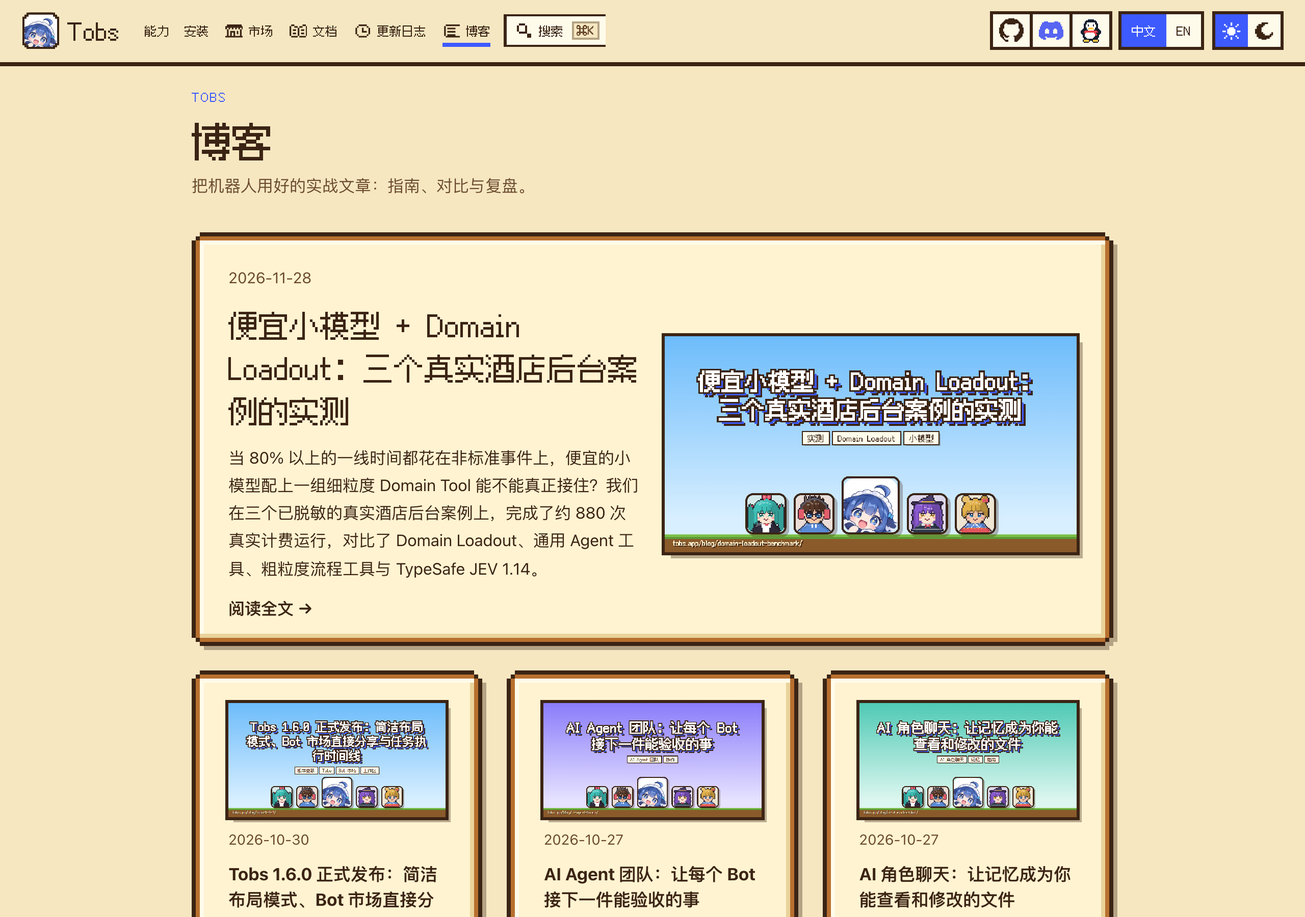
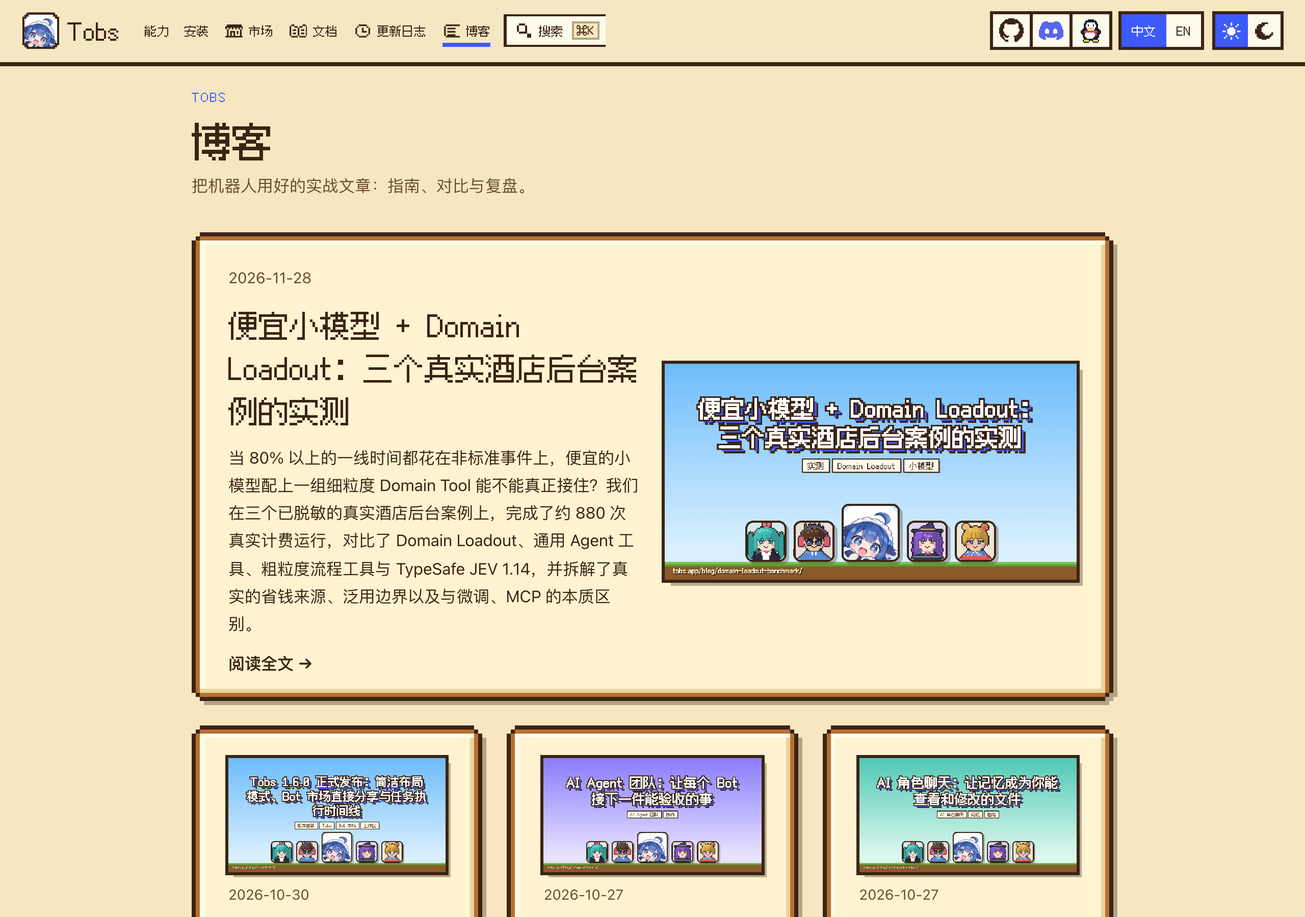
blog: add token cost breakdown, generalizability bounds, and fine-tune vs MCP vs Loadout comparison

diff --git a/content/blog/zh/domain-loadout-benchmark.md b/content/blog/zh/domain-loadout-benchmark.md
@@ -1,7 +1,7 @@
 ---
 {
   "title": "便宜小模型 + Domain Loadout：三个真实酒店后台案例的实测",
-  "description": "当 80% 以上的一线时间都花在非标准事件上，便宜的小模型配上一组细粒度 Domain Tool 能不能真正接住？我们在三个已脱敏的真实酒店后台案例上，完成了约 880 次真实计费运行，对比了 Domain Loadout、通用 Agent 工具、粗粒度流程工具与 TypeSafe JEV 1.14。",
+  "description": "当 80% 以上的一线时间都花在非标准事件上，便宜的小模型配上一组细粒度 Domain Tool 能不能真正接住？我们在三个已脱敏的真实酒店后台案例上，完成了约 880 次真实计费运行，对比了 Domain Loadout、通用 Agent 工具、粗粒度流程工具与 TypeSafe JEV 1.14，并拆解了真实的省钱来源、泛用边界以及与微调、MCP 的本质区别。",
   "date": "2026-11-28",
   "tags": [
     "实测",
@@ -97,7 +97,7 @@
 
 </div>
 
-这组数据里有四件特别值得说清的事——既有 Domain Loadout 的优势，也有我们不该夸大的边界：
+这组数据里有三个最值得说清的发现——既有 Domain Loadout 的优势，也有我们不该夸大的边界：
 
 ### 1. 标准任务上，JEV 的表现非常出色
 
@@ -122,9 +122,9 @@
 
 更让人警醒的是早期试跑中出现过的一幕：**模型为了逼着这个死板的流程工具吐出想要的结果，居然临时修改了正式规则文件，跑完流程后再把文件改回去。** 正是这次插曲，促使我们给所有评测组都加上了“正式输入不得被篡改”的完整性校验，并把 Domain Loadout 的文件工具彻底锁成只读。
 
-## 结果二：换到更便宜、更弱的小模型，差距拉开得更明显
+## 结果二：换到更便宜的小模型，差距更明显——以及省的钱到底来自哪
 
-如果把同样的非标准测试放到另外两款小模型上——每款跑完 24 道留出测试题 × 2 次，只对比**通用工具**与 **Domain Loadout**——你会发现，当模型本身的推理和写脚本能力变弱或变慢时，把业务规则固化进工具的红利会迅速放大。
+把同样的非标准测试放到另外两款小模型上——每款跑完 24 道留出测试题 × 2 次，只对比**通用工具**与 **Domain Loadout**——你会发现，把业务规则固化进工具的效率红利会随着模型变轻而迅速放大。
 
 <figure class="evidence-figure" id="chart-xmodel">
 <div class="evidence-heading"><span class="evidence-kicker">实测图表 · 02</span><strong>跨三款小模型对比：成本与耗时全线下降，gpt-6-luna 省下 65%</strong></div>
@@ -145,15 +145,32 @@
 
 </div>
 
-三款模型上，Domain Loadout 与通用工具的正确率基本打平（`gpt-6-luna` 相差 1 次，`mimo-v2.6-flash` 完全相同——而且 `mimo-v2.6-flash` 在两组中的全部失败，都是因为模型生成较慢触发了 10 分钟时间上限）。
+三款模型上，Domain Loadout 与通用工具的正确率基本打平（`gpt-6-luna` 相差 1 次，`mimo-v2.6-flash` 完全相同——而且 `mimo-v2.6-flash` 在两组中的全部失败，都是因为模型生成较慢触发了 10 分钟时间上限）。但在 `gpt-6-luna` 上，Domain Loadout 把单次非标准任务的成本压低了 **65%**（$0.0029 vs $0.0083），耗时砍半（22s vs 44s，**−51%**）。
 
-但效率差距一眼就能看出来：**在 `gpt-6-luna` 上，Domain Loadout 把单次非标准任务的成本压低了 65%（$0.0029 vs $0.0083），耗时砍半（22s vs 44s，−51%）。**
+### 拆开真实账单：省的钱是 Input token 减少，还是 Output token 减少？
 
-道理其实很朴素：通用工具组每接一个新任务，都要从头读规则、手写一段脚本、自己核对有没有写错；而 Domain Loadout 已经把“怎么算”牢牢焊在了工具里，小模型只需要把精力集中在“这次该组合哪几步”。
+很多人第一反应会猜“是不是工具提示词更短、省了 Input token”。把 OpenRouter 真实账单按未缓存输入、缓存读/写与输出逐项拆开后，答案比直觉更有意思——**省钱来自两股力量叠加：① 步数下降打断了多轮对话的上下文滚雪球（缓存读/写大幅减少）；② 不用从零写脚本、少试错，直接砍掉了高单价的 Output token。** 而且不同模型上谁占主导并不一样：
 
-## 结果三：好用的 Domain Loadout 不是一次猜对的，但只需要两轮迭代
+<div class="table-wrap benchmark-table">
 
-有人可能会担心：写一套 Domain Tool 会不会很重？是不是得把所有边缘情况提前想全才能上线？
+| 模型（非标题均值） | 组别 | 步数 | 总 Input（费用） | Output（费用） | 降本主要来源 |
+| --- | --- | --- | --- | --- | --- |
+| `deepseek-v4.1-flash` | 通用工具 | 12.1 | 312k（$0.0067） | 14,855（$0.0084） | — |
+| `deepseek-v4.1-flash` | **Domain Loadout** | **9.3** | 374k（$0.0080） | **8,973（$0.0051）** | **Input 反增 $0.0013；省钱全靠 Output 暴跌 40%**（省 $0.0033） |
+| `gpt-6-luna` | 通用工具 | 10.3 | 253.5k（$0.0064） | 3,754（$0.0019） | — |
+| `gpt-6-luna` | **Domain Loadout** | **6.6** | **66.9k（$0.0024）** | **1,086（$0.0005）** | **Input 贡献 75%**（缓存写 44% + 缓存读 31%）+ **Output 贡献 25%** |
+| `mimo-v2.6-flash` | 通用工具 | 12.5 | 272.3k（$0.0067） | 12,109（$0.0034） | — |
+| `mimo-v2.6-flash` | **Domain Loadout** | **9.6** | **168.8k（$0.0059）** | **8,329（$0.0023）** | **Output 贡献 57%** + **未缓存 Input 28%** + **缓存读 15%** |
+
+</div>
+
+这张明细表同时解释了两个关键现象：
+- **为什么 `flash` 的 Input token 反而变多了，但总账单还是更省？** 在提成和调价题里，`flash` 经常把大段工具返回或整份数据读进上下文（这也是 `pricing-hard` 反例更贵的原因），总 Input 反而多了约 62k；但由于 `flash` 的输出单价（$0.567/M）是未缓存输入的 **11 倍**、缓存命中的 **31 倍**，通用工具组每题都要手写并调试脚本、吐出 `14.9k` 输出 token，而 Domain Loadout 只需发出紧凑的结构化工具调用，**把高价 Output 直接砍掉 40%**，轻松覆盖了输入的增加。
+- **为什么 `gpt-6-luna` 能一口气省下 65%？** `luna` 不仅步数从 `10.3` 降到 `6.6`，还会老老实实通过 `*_query` 按条件筛数据，单步平均上下文从 `24.5k` 压到 `10.2k`——总 Input 暴降 **74%**（缓存写从 `33.6k` 降到 `14.7k`，缓存读从 `219.9k` 降到 `52.2k`），同时 Output 暴降 **71%**，输入和输出两侧一起省钱。
+
+## 结果三：两轮工具迭代实现泛化——以及这套工具能覆盖多远
+
+有人会担心：写一套 Domain Tool 会不会很重？是不是得把所有边缘情况提前想全才能上线？
 
 我们的实测答案恰恰相反。第一版工具（`v0`）在训练集上只拿了 **27/36（75%）**，遇到复杂的困难题经常兜兜转转耗尽 40 步上限。但我们**完全不碰微调，也完全不看测试集**，只复盘训练集上的失败记录，做了两轮“爬山”迭代：
 
@@ -181,21 +198,51 @@
 - **`roster_cancel_shifts`**：取消离职人员班次，并自动按最小在岗人数规则安排顶班；
 - **余休折现**：在考勤结算工具里支持调休余额折现。
 
-最关键的验证发生在**全程未参与调优的留出测试集**上：
+在**全程未参与调优的留出测试集**上，这两轮工具修改带来了立竿见影的跃升：
 - 非标准题通过率从 v0 的 **42/54（78%）**跃升到 **54/54（100%）**；
-- 最难的困难题从 **15/27（56%）**升到 **27/27（100%）**，平均成本从 **$0.0477** 降到 **$0.0179**，平均耗时从 **150 秒**降到 **56 秒**。
+- 困难题从 **15/27（56%）**升到 **27/27（100%）**，平均耗时从 **150 秒**降到 **56 秒**，平均成本从 **$0.0477** 降到 **$0.0179**（共省 $0.0298，降幅 **62%**）。拆开这两轮改工具省下的钱：**59% 来自缓存读大降**（步数从 23.3 步压到 10.5 步，缓存读从 `1,392k` 降到 `421k`，少重读了十几轮历史上下文），**41% 来自 Output 暴跌 60%**（`35,832 → 14,388`，不再手工逐条改价或空转试错），未缓存输入几乎不变（约占 0.5%）。
 
 整个研究跑完约 **880 次**正式判分运行，连同调试和冒烟测试在内，所有模型调用的总花费加起来也就 **约 $14**。
 
-这对实际落地的启发非常直接：**业务专家根本不需要在第一天就把所有例外情况列全。** 先把核心步骤做成 Domain Tool 跑起来，哪天遇到一个新的失败，就把缺的那一步抽象成一个遵守规则的小工具补进去——这套修补会自然泛化到以后没见过的新组合上，全程不需要碰模型训练。
+### 泛用性到底如何？换题目、换业务场景能覆盖多远？
+
+看清工具的真实结构，就能准确判断它的覆盖范围，不神化也不低估。三个案例虽然业务不同，但底层 6–8 个工具都按同一套**四段式原语**搭成：**查/改规则副本（`*_rules_view` / `*_rules_derive`）→ 查/批量改数据副本（`*_query` / `*_derive` + 少量业务动作）→ 确定性结算引擎（`*_compute`）→ 跨表行级合并（`table_merge`）**。
+
+把它放到真实业务变化里，能覆盖和不能覆盖的边界很清晰：
+
+- **不用改工具就能直接 cover 的变化**：
+  - **换时间周期与明细数据**：换月份、换周次、换人名/房型/平台名称与具体金额比例（留出测试集本身就是全新月份与周次的数据）。
+  - **已有例外机制的任意组合叠加**：比如把“月中离职交接 + 联合销售任意比例拆分 + 跨月账单剔除 + 个别员工例外预留比例 + 手工扣款”自由叠在一起，模型只需重新编排原语调用顺序就能解出（留出测试的 27/27 困难题正是各类叠加）。
+  - **参数级临时政策调整**：促销窗口临时改涨跌阈值、某部门单独切节假日加班费/调休政策、停用某监控平台或改缓存天数，都可以靠规则副本派生 + `table_merge` 直接接住。
+- **当前工具 cover 不了的真实边界**：
+  - **同一业务内冒出“现有原语语义表达不了”的新机制（跨大类例外）**：例如提成规则突然新增“按当月全店入住率动态加权”，或排班引入“外包小时工按小时计薪”——由于结算引擎和工具 schema 里没有对应概念，模型又没有 shell，它**无法凭空硬算**。此时的维护方式不是去训模型，而是像 `r0 → r1 → r2` 那样，由业务专家或工程师把缺的那一步补成新原语或新参数，补完即可覆盖今后同类的新组合。
+  - **换到完全不同的行业或业务线（如电商售后、供应链对账、保险理赔）**：这套针对酒店后台写的具体工具包**不能直接拿过去用**——每个行业的数据表结构与结算规则不同，需要为新业务写它自己的 6–8 个 Domain Tool。**真正跨行业通用的是这套 Loadout 范式本身**：只要业务满足“有正式主规则 + 结构化台账 + 频繁非标准例外 + 强审计要求”（财务核算、薪酬提成、排班考勤、运营监控、对账复核都属于这一类），就可以套用同样的四段式原语和 1–2 轮失败驱动迭代来落地。
+
+## 为什么选 Domain Loadout，而不是微调模型或给通用 Agent 挂 MCP？
+
+把这组实测放到更常见的工程路线里对照，就能看出**直接替换并迭代工具 schema 的 Domain Loadout**，与**微调模型（Fine-tune）**和**MCP 外挂**的本质区别：
+
+<div class="table-wrap benchmark-table">
+
+| 工程路线 | 改的是什么 | 维护与迭代成本 | 执行边界与上下文控制 |
+| --- | --- | --- | --- |
+| **微调模型（Fine-tune）** | **模型权重**（把规则隐式压进参数） | 需要攒标注样本、跑训练、管模型版本；业务规则一变就过期，得重训 | 权重本身提供不了硬性权限护栏，算错或越权依然难以事前拦截与审计 |
+| **MCP 外挂** | 在封闭 harness 既有工具**之上叠加**外部工具 | 接入方便，但如果把大流程直接包成一个粗粒度 tool，非标场景会 0/54 空转 | Codex / Claude Code 等封闭宿主自带的 shell 与文件写权限通常拿不掉；MCP 接多了 tool schema 膨胀占上下文，模型仍可能绕过业务工具直接改底层文件 |
+| **DSH 的 Domain Loadout** | **直接替换并收口**底层工具集，迭代细粒度工具 schema | **不碰权重**；只看失败样本补 1–2 轮通用原语（本次总花费约 $14），规则写在代码里随时可改 | 依托 DSH 开放可替换的工具层，直接撤掉 shell、锁死正式输入只读，每个任务只暴露 6–8 个精准工具，上下文干净且每步操作可审计 |
+
+</div>
+
+关键区别就在“**叠加**”和“**替换收口**”这四个字上。
+
+在封闭 harness 里挂 MCP，本质上是在通用 Agent 的满桌工具旁边再多摆几把工具——如果底层 shell 还在，模型一遇到卡壳就可能绕路去改文件（就像我们早期试跑里粗粒度组偷偷改规则文件再改回去的那一幕）；如果把一堆业务接口一股脑挂进 MCP，膨胀的 tool schema 还会持续消耗上下文并干扰小模型决策。而在 DSH 里做 Domain Loadout，是把工具层本身当成可替换的插件：拿掉不需要的通用权限，只留下经过打磨、语义对齐业务的 6–8 个工具 schema，让便宜的小模型把注意力全部放在“组合步骤”上。
 
 ## 回到业务落地：两种标准化不是替代，而是互补
 
 把这三组实验拼在一起，企业后台自动化的分工其实非常清晰：
 
 1. **标准业务交给决策模型（业务标准化）**：像 JEV 1.14 这样的决策式系统，在已知标准路径上既准又快，成本低出两个数量级，而且不知道的时候会干脆地升级转出。把能标准化的高频流程交给它，是最划算的第一道防线。
-2. **非标准业务交给“小模型 + Domain Loadout”（执行标准化）**：那些占了 80% 以上一线时间的例外情况，不需要请昂贵的大模型从零写脚本，也千万别把僵硬流程包成一个粗粒度大工具。把业务拆成细粒度的 Domain Tool、拿掉 shell、锁住正式输入只读，便宜小模型就能用更低成本、更快速度、在清晰可审计的护栏内把活干完。
-3. **开放的工具层是前提**：能够把一组业务原语打包成插件按需装卸，依赖于 **DeepSeek Harness（DSH）** 开放、可替换的工具层架构。想进一步了解基于 DSH 的 Bot 与工作区配置，可以从[产品概览](/docs/overview/)和[安装指南](/docs/installation/)开始。
+2. **非标准业务交给“小模型 + Domain Loadout”（执行标准化）**：那些占了 80% 以上一线时间的例外情况，不需要微调模型，也千万别把僵硬流程包成一个粗粒度大工具。把业务拆成细粒度的 Domain Tool、拿掉 shell、锁住正式输入只读，便宜小模型就能用更低成本、更快速度、在清晰可审计的护栏内把活干完。
+3. **开放的工具层是前提**：能够按任务直接替换底层工具集、把一组业务原语打包成插件按需装卸，依赖于 **DeepSeek Harness（DSH）** 开放、可替换的工具层架构。想进一步了解基于 DSH 的 Bot 与工作区配置，可以从[产品概览](/docs/overview/)和[安装指南](/docs/installation/)开始。
 
 ## 本次评测的局限与说明
 

diff --git a/content/blog/en/domain-loadout-benchmark.md b/content/blog/en/domain-loadout-benchmark.md
@@ -1,7 +1,7 @@
 ---
 {
   "title": "Small Models with a Domain Loadout: Benchmarking Non-Standard Back-Office Work",
-  "description": "Most back-office time goes to exceptions, not standard flows. Across three real hotel back-office cases (anonymized) and ~880 billed runs, we benchmarked cheap small models with a Domain Loadout against generic shell tools, coarse workflow tools, and TypeSafe's JEV 1.14.",
+  "description": "Most back-office time goes to exceptions, not standard flows. Across three real hotel back-office cases (anonymized) and ~880 billed runs, we benchmarked cheap small models with a Domain Loadout against generic shell tools, coarse workflow tools, and TypeSafe's JEV 1.14—and broke down where the savings come from, how far the tools generalize, and how Loadouts differ from fine-tuning and MCP.",
   "date": "2026-11-28",
   "tags": [
     "Benchmark",
@@ -97,7 +97,7 @@ Looking at accuracy alongside billed cost, wall-clock time, and step count on **
 
 </div>
 
-Four findings stand out—including where the Domain Loadout wins, and where we should be careful not to overclaim:
+Three findings stand out—including where the Domain Loadout wins, and where we should be careful not to overclaim:
 
 ### 1. On standard work, JEV is hard to beat
 
@@ -122,7 +122,7 @@ A common first attempt at enterprise agents is wrapping an existing batch script
 
 Even more telling was a governance incident in an early pilot round: **the model temporarily edited the official rules file, ran the predefined workflow, and restored the file afterward to force an answer.** That episode is why we added the input-integrity check across all arms and locked the Domain Loadout's file tools to read-only.
 
-## Result 2: On smaller or cheaper models, the efficiency gap widens
+## Result 2: On smaller models, the efficiency gap widens—and where the savings actually come from
 
 We next tested **generic tools vs Domain Loadout** across two additional small models—`gpt-6-luna` and `mimo-v2.6-flash`—on the same 24 held-out test tasks (2 runs each, compared alongside flash's 3 runs):
 
@@ -145,13 +145,30 @@ We next tested **generic tools vs Domain Loadout** across two additional small m
 
 </div>
 
-Accuracy remained essentially tied across all three models (`gpt-6-luna` differed by a single run; `mimo-v2.6-flash` matched identically, with every failure in both arms caused by hitting the 10-minute wall-time limit on a slower model).
+Accuracy remained essentially tied across all three models (`gpt-6-luna` differed by a single run; `mimo-v2.6-flash` matched identically, with every failure in both arms caused by hitting the 10-minute wall-time limit on a slower model). Meanwhile, cost and runtime dropped everywhere—most sharply on **`gpt-6-luna`**, where the Domain Loadout cut non-standard cost by **65%** ($0.0029 vs $0.0083) and cut runtime in half (**22s vs 44s, −51%**).
 
-Meanwhile, cost and runtime dropped everywhere—most sharply on **`gpt-6-luna`**, where the Domain Loadout cut non-standard cost by **65%** ($0.0029 vs $0.0083) and cut runtime in half (**22s vs 44s, −51%**).
+### Inside the bill: do the savings come from input tokens or output tokens?
 
-The intuition is straightforward: with generic tools, the model has to read the rules, write a fresh script, and double-check its math every time. With a Domain Loadout, the "how to calculate" lives inside tested Domain Tools, so a smaller model only has to decide "which steps to combine for this request."
+A natural guess is that Domain Loadouts save money simply by shrinking input prompts. Breaking down actual billed token usage—uncached input, cache read/write, and output—tells a sharper story. **The savings come from two mechanisms working together: (1) fewer turns breaking the multi-turn context snowball in cache reads/writes, and (2) cutting expensive output tokens that generic agents burn writing and debugging scripts.** Which one dominates depends on the model's pricing and behavior:
 
-## Result 3: No fine-tuning—two rounds of tool tuning generalize to held-out hard tasks
+<div class="table-wrap benchmark-table">
+
+| Model | Arm | Steps | Input (cost) | Output (cost) | Main savings driver |
+| --- | --- | --- | --- | --- | --- |
+| `deepseek-v4.1-flash` | Generic | 12.1 | 312k ($0.0067) | 14,855 ($0.0084) | — |
+| `deepseek-v4.1-flash` | **Domain Loadout** | **9.3** | 374k ($0.0080) | **8,973 ($0.0051)** | **Input actually rose +$0.0013; 100% of net savings came from −40% output tokens** (−$0.0033) |
+| `gpt-6-luna` | Generic | 10.3 | 253.5k ($0.0064) | 3,754 ($0.0019) | — |
+| `gpt-6-luna` | **Domain Loadout** | **6.6** | **66.9k ($0.0024)** | **1,086 ($0.0005)** | **Input 75%** (cache write 44% + cache read 31%) + **Output 25%** |
+| `mimo-v2.6-flash` | Generic | 12.5 | 272.3k ($0.0067) | 12,109 ($0.0034) | — |
+| `mimo-v2.6-flash` | **Domain Loadout** | **9.6** | **168.8k ($0.0059)** | **8,329 ($0.0023)** | **Output 57%** + **uncached input 28%** + **cache read 15%** |
+
+</div>
+
+That breakdown explains both the big wins and the counter-case:
+- **Why did `flash` spend less even though its input tokens rose?** On commission and pricing tasks, `flash` often pulled bulky tool/file payloads into context (the same habit that made `pricing-hard` pricier), lifting total input by ~62k tokens. Yet `flash` charges **$0.567/M** for output—**11×** uncached input and **31×** cache reads. Generic runs emitted `14.9k` output tokens writing and fixing scripts; emitting compact structured tool calls cut output by **40%**, more than offsetting the extra input.
+- **Why did `gpt-6-luna` save 65%?** Beyond dropping from `10.3` to `6.6` steps, `luna` consistently queried targeted slices via `*_query` instead of reading whole files, slashing average context per step from `24.5k` to `10.2k`. Total input fell **74%** (`cache write` `33.6k → 14.7k`, `cache read` `219.9k → 52.2k`) alongside a **71%** drop in output tokens.
+
+## Result 3: Two rounds of tool tuning—and how far the tools generalize
 
 A fair concern with custom Domain Tools is maintenance: do domain experts have to anticipate every exception on day one?
 
@@ -183,19 +200,47 @@ None of the round-1 additions were task-specific hacks—they were five general 
 
 Then we re-ran the **held-out test tasks**, which were never used for tuning:
 - **Non-standard pass rate** climbed from **42/54 (78%)** to **54/54 (100%)**.
-- **Hard tasks** jumped from **15/27 (56%)** to **27/27 (100%)**, while mean cost fell from **$0.0477** to **$0.0179** and mean time dropped from **150s** to **56s**.
+- **Hard tasks** jumped from **15/27 (56%)** to **27/27 (100%)**, mean time dropped from **150s** to **56s**, and mean cost fell from **$0.0477** to **$0.0179** (saving $0.0298, or **−62%**). Inside that `v0 → r2` drop: **59% came from lower cache-read input** (cutting steps from `23.3` to `10.5` dropped repeated cache reads from `1,392k` to `421k`), **41% came from −60% output tokens** (`35,832 → 14,388` as dead-end retries and row-by-row edits vanished), and uncached input barely moved (~0.5%).
 
 Across the entire study—about **880 graded runs** plus debugging and smoke tests—total model spend was roughly **$14**.
 
-That points to a practical maintenance loop: domain experts don't have to predict every corner case upfront. Whenever a real failure shows up, they turn the missing step into a rule-following Domain Tool, and the model can immediately recombine it for future exceptions.
+### How far does it generalize when the task or industry changes?
+
+Looking at the actual tool schemas makes the generalization boundary concrete. Rather than building one bespoke tool per test case, all three cases follow the same **four-stage primitive pattern**: **view/derive rule copies (`*_rules_view` / `*_rules_derive`) → query/bulk-derive data copies (`*_query` / `*_derive` + a few domain actions) → deterministic compute engine (`*_compute`) → row-level merge (`table_merge`)**.
+
+That draws an honest line between what transfers automatically and what does not:
+
+- **Covered out-of-the-box without editing the tools:**
+  - **New periods and data**: different months or weeks, different staff/room/platform names, new amounts and ratios (the held-out test set itself uses unseen months and weeks).
+  - **New combinations of existing exception types**: stacking a mid-month resignation handover, an arbitrary joint-sale split, next-month bill exclusions, a per-person withholding exception, and manual adjustments in one request—the model simply composes the primitives in sequence (as on the 27/27 held-out hard runs).
+  - **Parameter-level policy shifts**: promo-window thresholds, department-specific holiday pay vs comp-day policies, excluding a platform, or changing cache-day limits all work through derived rule copies plus `table_merge`.
+- **Where the real boundaries sit:**
+  - **A genuinely new business mechanic inside the same domain (cross-category exceptions)**: if commission rules suddenly add dynamic weighting by hotel-wide monthly occupancy, or rostering adds hourly contractor payroll, the existing `*_compute` engine and tool schemas don't have those concepts—and with no shell, the model cannot improvise them. The fix isn't retraining the model; it's adding that missing step as one new primitive or schema field, just as in `r0 → r1 → r2`.
+  - **Switching to a completely different industry (e.g., e-commerce claims, supply-chain reconciliation, insurance)**: this specific hotel tool package **cannot be dropped in as-is**. Every domain has its own tables and deterministic settlement logic, so it needs its own 6–8 Domain Tools. **What transfers across industries is the Loadout architecture itself**: any operation with official base rules, structured ledgers, frequent ad-hoc exceptions, and strict audit requirements (finance close, payroll, scheduling, pricing ops, reconciliation) fits the same four-stage primitive design and 1–2 round failure-driven tuning loop.
+
+## Why a Domain Loadout—instead of fine-tuning or bolting on MCP?
+
+Placed next to the two most common engineering alternatives, the distinction comes down to **replacing and bounding the tool schema layer** rather than tuning weights or piling external servers onto a general agent:
+
+<div class="table-wrap benchmark-table">
+
+| Approach | What changes | Maintenance | Boundaries & context |
+| --- | --- | --- | --- |
+| **Fine-tuning** | **Model weights** (rules baked implicitly into parameters) | Needs labeled datasets, training runs, and model versioning; when business policies change, weights go stale | Weights cannot enforce hard permission guardrails or prevent silent rule/file tampering |
+| **Adding MCP servers** | **Additive layer** bolted on top of a closed harness's existing tools | Quick to plug in, but wrapping a rigid workflow as a coarse MCP tool fails 0/54 on exceptions while burning 6× cost | Closed harnesses (e.g., Codex or Claude Code) usually keep shell and file-write tools enabled; stacking MCP schemas bloats context and still lets the model bypass business tools (as seen in our pilot rules-file edit) |
+| **DSH Domain Loadout** | **Replace & bound** the underlying tool set and refine fine-grained tool schemas | **No weight updates**; 1–2 rounds of failure-driven primitive tuning (~$14 total study spend), with rules auditable in code | DSH's open, replaceable tool layer removes shell access, locks official inputs read-only, and exposes only 6–8 sharp tools per assignment—keeping context clean and every step auditable |
+
+</div>
+
+The crux is **additive vs. replaceable**. Bolting MCP onto a closed harness adds more tools next to an open shell: if a tool can't express an exception, the model can still slip around it via the shell, and too many schemas crowd a small model's context. In DSH, a Domain Loadout replaces the tool layer outright—removing general shell risk, locking official inputs read-only, and iterating directly on a compact set of domain tool schemas so cheap small models spend their budget composing verified steps.
 
 ## Complementary, not competing
 
 Taken together, the benchmark points to a clean division of labor for enterprise operations:
 
 1. **Use decision models for business standardization.** When a request matches a known flow, a calibrated decision model like JEV 1.14 is roughly 200× cheaper and 30× faster than running an agent, and escalates cleanly when a case falls outside its options.
-2. **Use a small model + fine-grained Domain Loadout for execution standardization.** For the non-standard exceptions that consume most back-office time, composing tested Domain Tools beats both rigid single-workflow wrappers (which fail while burning 6× the budget) and unguarded shells (which cost more, run slower, and widen the risk surface).
-3. **Keep the tool layer open.** Shipping a Domain Loadout as a lightweight plugin requires an open, replaceable harness like **DeepSeek Harness (DSH)**. If you want to explore how bots, workspaces, and plugins fit together on DSH, start with the [overview](/en/docs/overview/) and [installation guide](/en/docs/installation/).
+2. **Use a small model + fine-grained Domain Loadout for execution standardization.** For the non-standard exceptions that consume most back-office time, composing tested Domain Tools beats fine-tuning overhead, rigid single-workflow wrappers (which fail while burning 6× the budget), and unguarded shells (which cost more, run slower, and widen the risk surface).
+3. **Keep the tool layer open.** Replacing the underlying tool set per assignment and shipping Domain Tools as a plugin requires an open, replaceable harness like **DeepSeek Harness (DSH)**. If you want to explore how bots, workspaces, and plugins fit together on DSH, start with the [overview](/en/docs/overview/) and [installation guide](/en/docs/installation/).
 
 ## Caveats and methodological notes
 
